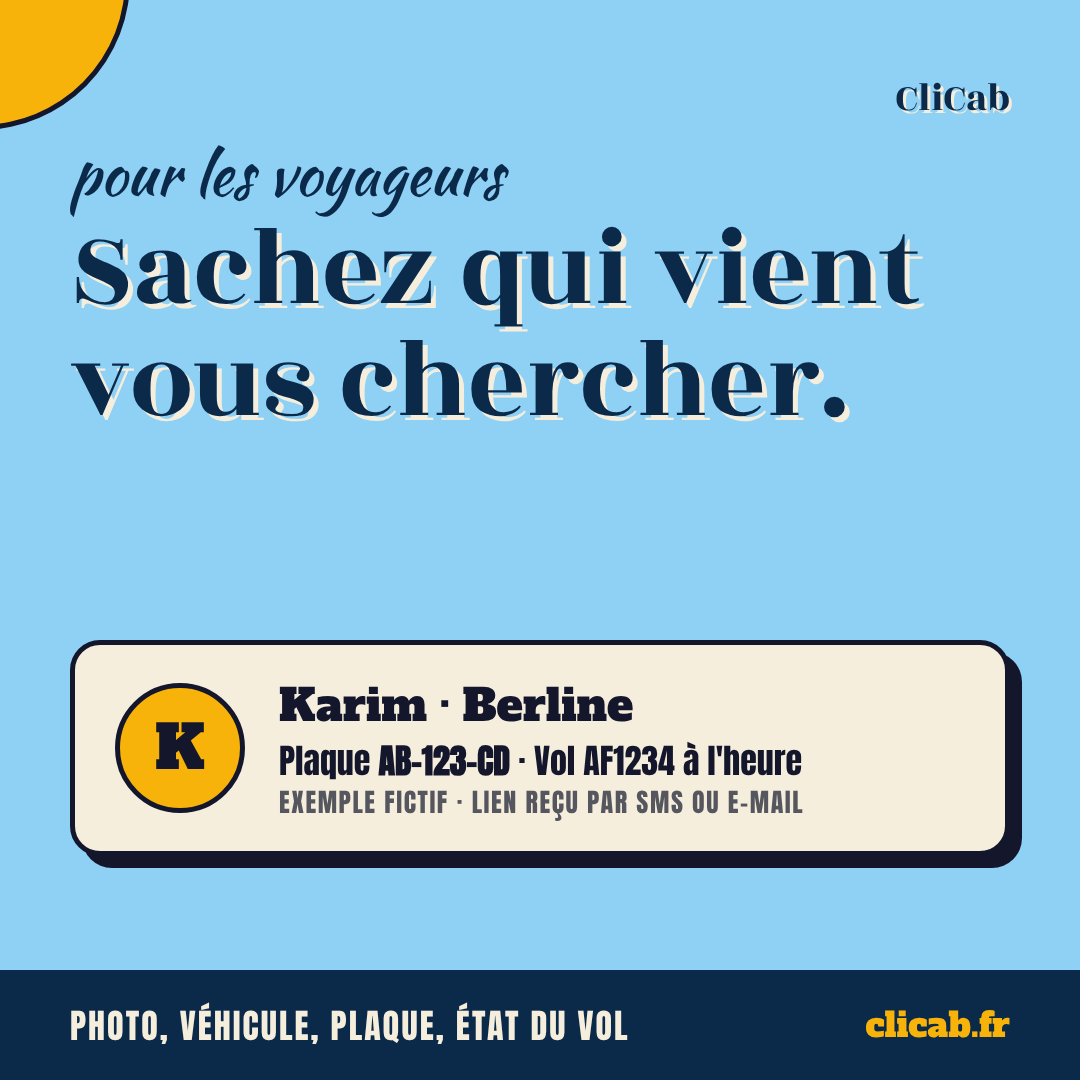
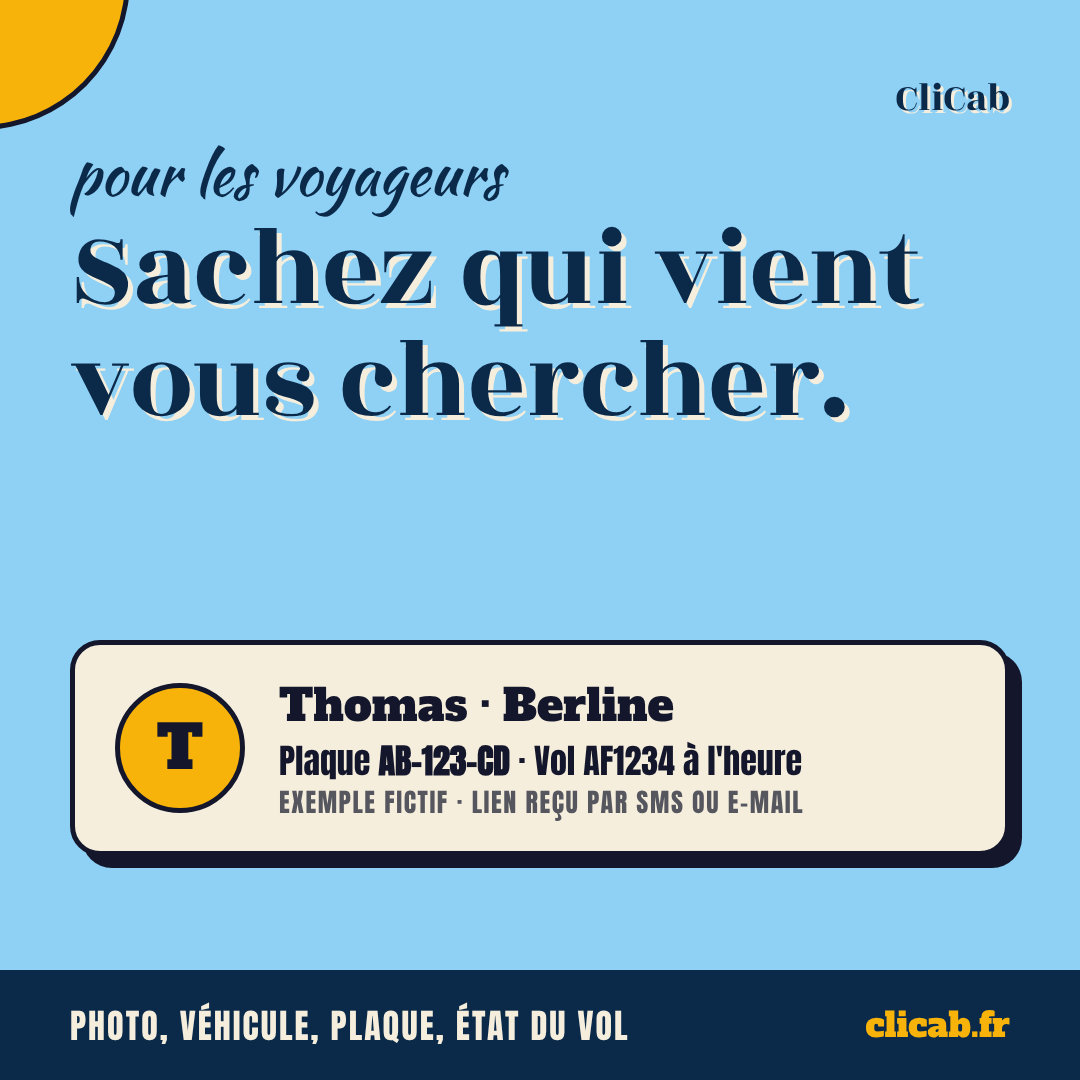
Exemples : prénoms et noms plus variés (code, tests, visuel voyageur)
Claude-Session: https://claude.ai/code/session_01Kibw4NxoHggexyoNZitFjH

Changed region(s): [[0.2444, 0.6111, 0.6417, 0.6722], [0.1222, 0.6722, 0.1833, 0.7333]]

diff --git a/apps/api/src/recruitment.test.ts b/apps/api/src/recruitment.test.ts
@@ -37,7 +37,7 @@ const founderCode = async (label = "Fondateur test", count = 1, maxUses = 1) => 
 let seq = 0;
 const candidate = (code: string, over: Record<string, unknown> = {}) => {
   const n = ++seq;
-  return { firstName: "Karim", lastName: "Benali", phone: `+3361111${String(n).padStart(4, "0")}`, email: `k${n}@test.fr`, yearsExperience: 6, otherPlatforms: [{ name: "Autre plateforme", rating: 4.9 }], referralCode: code, consent: true, ...over };
+  return { firstName: "Luis", lastName: "Fernandes", phone: `+3361111${String(n).padStart(4, "0")}`, email: `k${n}@test.fr`, yearsExperience: 6, otherPlatforms: [{ name: "Autre plateforme", rating: 4.9 }], referralCode: code, consent: true, ...over };
 };
 const inDays = (d: number) => new Date(Date.now() + d * 86400_000).toISOString();
 
@@ -200,7 +200,7 @@ describe("vérifications et décision", () => {
 
 describe("parrainage", () => {
   async function activeDriver() {
-    const [c] = await founderCode("Fondateur Karim");
+    const [c] = await founderCode("Fondateur Sophie");
     await call("/apply", { body: candidate(c.code) });
     const id = (await prisma.application.findFirstOrThrow()).id;
     await fullReview(id);
@@ -226,12 +226,12 @@ describe("parrainage", () => {
     const d = await prisma.driver.findUniqueOrThrow({ where: { id: acc.json.driverId } });
     expect(d.sponsorId).toBe(parrain.id);
     const detail = await call(`/admin/applications/${filleul}`, { admin: true });
-    expect(detail.json.sponsor).toMatchObject({ founder: false, driver: { id: parrain.id, name: "Karim Benali" } });
+    expect(detail.json.sponsor).toMatchObject({ founder: false, driver: { id: parrain.id, name: "Luis Fernandes" } });
 
     const tree = (await call("/admin/applications/tree", { admin: true })).json;
     expect(tree).toHaveLength(2);
     expect(tree.find((t: any) => t.id === acc.json.driverId)).toMatchObject({ sponsorId: parrain.id, founder: false });
-    expect(tree.find((t: any) => t.id === parrain.id)).toMatchObject({ sponsorId: null, founder: true, founderLabel: "Fondateur Karim" });
+    expect(tree.find((t: any) => t.id === parrain.id)).toMatchObject({ sponsorId: null, founder: true, founderLabel: "Fondateur Sophie" });
   });
 
   it("un chauffeur non actif ne peut pas créer de codes", async () => {
@@ -257,7 +257,7 @@ describe("conservation des données", () => {
     expect(gone.email).toMatch(/@anonyme\.invalid$/);
     expect(gone.anonymizedAt).not.toBeNull();
     const kept = await prisma.application.findUniqueOrThrow({ where: { id: y.id } });
-    expect(kept.firstName).toBe("Karim");
+    expect(kept.firstName).toBe("Luis");
     // l'effacement à la demande est refusé si un compte chauffeur y est lié
     await fullReviewAndAccept(y.id);
     expect((await call(`/admin/applications/${y.id}/anonymize`, { admin: true, body: {} })).status).toBe(409);

diff --git a/apps/web-booking/lib/application.test.ts b/apps/web-booking/lib/application.test.ts
@@ -1,7 +1,7 @@
 import { describe, expect, it } from "vitest";
 import { emptyForm, toPayload, validate, type Form } from "./application";
 
-const ok: Form = { ...emptyForm, firstName: "Karim", lastName: "Benali", phone: "06 12 34 56 78", email: "k@test.fr", years: "6", code: "CLI-ABCD-EFGH", consent: true };
+const ok: Form = { ...emptyForm, firstName: "Sophie", lastName: "Moreau", phone: "06 12 34 56 78", email: "k@test.fr", years: "6", code: "CLI-ABCD-EFGH", consent: true };
 
 describe("formulaire de candidature", () => {
   it("accepte un dossier complet", () => { expect(validate(ok)).toEqual({}); });
@@ -17,7 +17,7 @@ describe("formulaire de candidature", () => {
   });
   it("prépare le corps de la requête", () => {
     expect(toPayload({ ...ok, platforms: [{ name: " Y ", rating: "4,5" }, { name: "", rating: "" }] })).toEqual({
-      firstName: "Karim", lastName: "Benali", phone: "06 12 34 56 78", email: "k@test.fr", yearsExperience: 6,
+      firstName: "Sophie", lastName: "Moreau", phone: "06 12 34 56 78", email: "k@test.fr", yearsExperience: 6,
       otherPlatforms: [{ name: "Y", rating: 4.5 }], referralCode: "CLI-ABCD-EFGH", consent: true,
     });
   });

diff --git a/apps/backoffice/app/recruitment.tsx b/apps/backoffice/app/recruitment.tsx
@@ -167,7 +167,7 @@ function Codes() {
         <h3>Créer des codes fondateurs</h3>
         <div className="muted" style={{ fontSize: 13, marginBottom: 8 }}>Pour la première cohorte de chauffeurs. Ils passent la même vérification que les autres : le parrainage ne dispense de rien.</div>
         <div className="row">
-          <input placeholder="Destinataire ou lot (ex. Karim)" value={label} onChange={(e) => setLabel(e.target.value)} style={{ flex: 1, minWidth: 200 }} />
+          <input placeholder="Destinataire ou lot (ex. Thomas)" value={label} onChange={(e) => setLabel(e.target.value)} style={{ flex: 1, minWidth: 200 }} />
           <input type="number" min={1} max={50} value={count} onChange={(e) => setCount(e.target.value)} style={{ width: 80 }} title="Nombre de codes" />
           <input type="number" min={1} max={20} value={max} onChange={(e) => setMax(e.target.value)} style={{ width: 80 }} title="Utilisations par code" />
           <button className="btn primary" disabled={label.trim().length < 2} onClick={() => act("/admin/applications/codes", { label, count: Number(count), maxUses: Number(max) })}>Créer</button>

diff --git a/apps/api/scripts/demo-driver.ts b/apps/api/scripts/demo-driver.ts
@@ -41,7 +41,7 @@ async function demoCompany(): Promise<void> {
   } finally { await prisma.$disconnect(); }
   const mine = (await call("/company/drivers", { token: DEMO_COMPANY_KEY })) as any[];
   let driver = mine.find((d) => d.phone === COMPANY_PHONE);
-  if (!driver) driver = await call("/company/drivers", { token: DEMO_COMPANY_KEY, body: { firstName: "Karim", lastName: "Société", phone: COMPANY_PHONE, email: "karim.societe@example.com", vehicle: { plate: "DE-002-MO", make: "Mercedes", model: "Classe E", category: "BUSINESS" } } });
+  if (!driver) driver = await call("/company/drivers", { token: DEMO_COMPANY_KEY, body: { firstName: "Camille", lastName: "Société", phone: COMPANY_PHONE, email: "karim.societe@example.com", vehicle: { plate: "DE-002-MO", make: "Mercedes", model: "Classe E", category: "BUSINESS" } } });
   const { token } = await call("/driver/login", { body: { phone: COMPANY_PHONE, code: CODE } });
   const docs = ((await call("/driver/documents", { token }).catch(() => [])) as any[]).map((d) => d.type);
   for (const type of ["VTC_CARD", "DRIVING_LICENSE", "INSURANCE", "ID"]) {

diff --git a/apps/api/src/rescue.test.ts b/apps/api/src/rescue.test.ts
@@ -567,7 +567,7 @@ describe("revenu minimal par course et justificatif de réservation préalable",
     expect(before.status).toBe(200);
     expect(before.json.complete).toBe(false);
     expect(before.json.missing).toEqual(expect.arrayContaining(["numéro d'inscription au registre des exploitants de VTC", "numéro Siren/Siret"]));
-    await call("/driver/identity", { token: d.token, body: { businessName: "Benali Transport", siret: "12345678901234", revtcNumber: "EVTC-075-0001" } });
+    await call("/driver/identity", { token: d.token, body: { businessName: "Girard Transport", siret: "12345678901234", revtcNumber: "EVTC-075-0001" } });
     const j = (await call(`/driver/rides/${ride.id}/justificatif`, { token: d.token })).json;
     expect(j.complete).toBe(true);
     const labels = j.lines.map((l: string[]) => l[0]);
